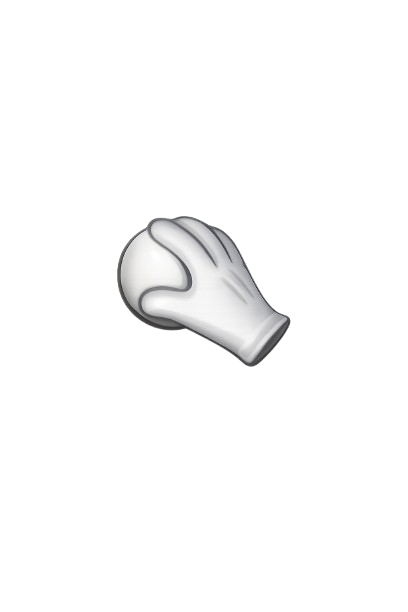
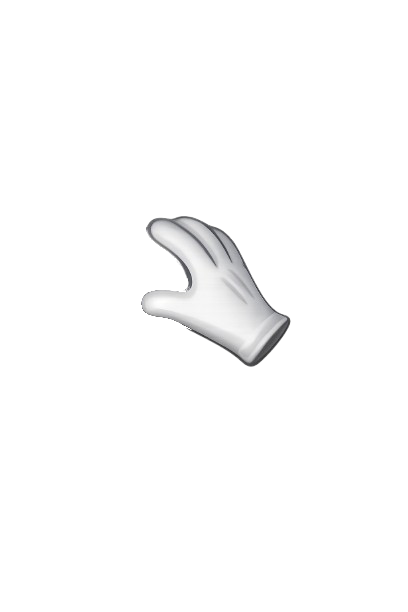
synced whiteball for everybody
M  public/assets/game/hand.png
M  src/common/pool-constants.ts
M  src/common/server-types.ts
M  src/scenes/pool-game-scene.ts
M  src/services/local-service.ts
M  src/services/multiplayer-service.tsx
M  src/services/service.ts

Changed region(s): [[0.2647, 0.3725, 0.4706, 0.5588]]

diff --git a/src/scenes/pool-game-scene.ts b/src/scenes/pool-game-scene.ts
@@ -124,13 +124,8 @@ export class PoolGameScene extends Phaser.Scene {
         });
 
         this.service.subscribe(Events.PULL, ({ x, y, angle }) => {
-            const width = this.tableWidth;
-            const height = this.tableHeight;
-
-            const mx = this.marginX;
-            const my = this.marginY;
-
-            this.updateCueBullback(x * width + mx, y * height + my, angle);
+            const target = this.denormalize(x, y);
+            this.updateCueBullback(target.x, target.y, angle);
         });
 
         this.service.subscribe(Events.DRAG_POWER_METER, ({ power }) => this.setPower(power));
@@ -141,16 +136,22 @@ export class PoolGameScene extends Phaser.Scene {
             this.service.setState(state);
         });
 
-        this.service.subscribe(Events.HAND, ({ x, y }) => {
-            const width = this.tableWidth;
-            const height = this.tableHeight;
+        this.service.subscribe(Events.HAND, ({ x, y, click }) => {
+            const wb = this.balls.length - 1;
+            const whiteBall = this.balls[wb]!;
+            const { x: px, y: py } = this.denormalize(x, y);
 
-            const mx = this.marginX;
-            const my = this.marginY;
+            if (click) {
+                whiteBall.isPocketed = whiteBall.isAnimating = this.hand.visible = false;
+                whiteBall.phaserSprite.visible = true;
+                whiteBall.phaserSprite.setPosition(px, py);
+                this.service.setInHole(wb, false);
+            } else {
+                this.hand.setPosition(px, py);
+                whiteBall.phaserSprite.setPosition(px, py);
+                whiteBall.phaserSprite.visible = this.hand.visible = true;
+            }
 
-            const whiteBall = this.balls[this.balls.length - 1]!;
-            whiteBall.phaserSprite.setPosition(x * width + mx, y * height + my);
-            whiteBall.phaserSprite.visible = true;
         });
     }
 
@@ -521,6 +522,20 @@ export class PoolGameScene extends Phaser.Scene {
         return px >= left && px <= right && py >= top && py <= bottom;
     }
 
+    private normalize(x: number, y: number): { x: number; y: number } {
+        return {
+            x: (x - this.marginX) / this.tableWidth,
+            y: (y - this.marginY) / this.tableHeight
+        };
+    }
+
+    private denormalize(x: number, y: number): { x: number; y: number } {
+        return {
+            x: x * this.tableWidth + this.marginX,
+            y: y * this.tableHeight + this.marginY
+        };
+    }
+
     private setupInput(): void {
         this.input.on("pointermove", (pointer: Phaser.Input.Pointer) => {
             if (MODAL_OPEN || !this.service.isMyTurn()) return;
@@ -531,12 +546,8 @@ export class PoolGameScene extends Phaser.Scene {
             const whiteBall = this.balls[this.balls.length - 1]!;
 
             if (whiteBall.isPocketed && this.canPlaceBall(px, py)) {
-                const mx = this.marginX;
-                const my = this.marginY;
-
-                this.hand.visible = true;
-                this.hand.setPosition(px, py);
-                this.service.moveHand((px - mx) / this.tableWidth, (py - my) / this.tableHeight);
+                const data = this.normalize(px, py);
+                this.service.moveHand(data.x, data.y, false);
                 return;
             }
 
@@ -555,10 +566,8 @@ export class PoolGameScene extends Phaser.Scene {
 
             // Hand Stuff
             if (whiteBall.isPocketed && this.canPlaceBall(px, py)) {
-                whiteBall.isPocketed = whiteBall.isAnimating = this.hand.visible = false;
-                whiteBall.phaserSprite.visible = true;
-                whiteBall.phaserSprite.setPosition(px, py);
-                this.service.setInHole(wb, false);
+                const data = this.normalize(px, py);
+                this.service.moveHand(data.x, data.y, true);
                 return;
             }
 
@@ -618,18 +627,13 @@ export class PoolGameScene extends Phaser.Scene {
 
         if (!this.cue.phaserSprite || !this.service.isMyTurn()) return;
 
-        const width = this.tableWidth;
-        const height = this.tableHeight;
-
-        const mx = this.marginX;
-        const my = this.marginY;
-
         const { x, y } = whiteBall.phaserSprite!;
 
         if (this.isMobile) {
             // Still show aim line with current angle
+            const data = this.normalize(x, y);
             this.drawAimLine(x, y, this.cue.rotation);
-            this.service.pull((x - mx) / width, (y - my) / height, this.cue.rotation, this.cue.power);
+            this.service.pull(data.x, data.y, this.cue.rotation, this.cue.power);
             return;
         }
 
@@ -660,8 +664,10 @@ export class PoolGameScene extends Phaser.Scene {
         }
 
         // Aim line
+        const data = this.normalize(x, y);
+
         this.drawAimLine(x, y, angle);
-        this.service.pull((x - mx) / width, (y - my) / height, angle, this.cue.power);
+        this.service.pull(data.x, data.y, angle, this.cue.power);
     }
 
     private lineStyle(width: number, color: number, alpha: number = 1): void {

diff --git a/src/common/server-types.ts b/src/common/server-types.ts
@@ -3,13 +3,13 @@ import type { BallType, KeyPositions } from "./pool-types";
 
 type MiddlewareResponse<TOutput> =
     | {
-          success: true;
-          data: TOutput;
-          error?: null;
-      }
+        success: true;
+        data: TOutput;
+        error?: null;
+    }
     | {
-          error: string;
-      };
+        error: string;
+    };
 
 export type Middleware<TInput, TOutput = unknown> = (
     data: TInput
@@ -103,7 +103,7 @@ export type EventsData = {
     [Events.HITS]: { keyPositions: KeyPositions; state: PoolState };
     [Events.PULL]: { x: number; y: number; angle: number; power: number };
     [Events.INIT]: Room;
-    [Events.HAND]: { x: number; y: number };
+    [Events.HAND]: { x: number; y: number, click: boolean };
 
     // UI UPDATES
     [Events.DROP_BALL]: { ballNumber: number | "white" | "black"; ballType: BallType };

diff --git a/src/services/multiplayer-service.tsx b/src/services/multiplayer-service.tsx
@@ -169,9 +169,9 @@ export class MultiplayerService extends LocalService {
         this.call(Events.PULL, { x, y, angle, power }, BroadcastEvent.OTHERS);
     }
 
-    override moveHand(x: number, y: number): void {
-        this.send(Events.HAND, { x, y });
-        this.call(Events.HAND, { x, y }, BroadcastEvent.OTHERS);
+    override moveHand(x: number, y: number, click: boolean): void {
+        this.send(Events.HAND, { x, y, click });
+        this.call(Events.HAND, { x, y, click }, BroadcastEvent.OTHERS);
     }
 
     public isConnected(): boolean {

diff --git a/src/services/local-service.ts b/src/services/local-service.ts
@@ -41,8 +41,8 @@ export class LocalService extends Service {
         });
     }
 
-    override moveHand(x: number, y: number): void {
-        this.send(Events.HAND, { x, y });
+    override moveHand(x: number, y: number, click: boolean): void {
+        this.send(Events.HAND, { x, y, click });
     }
 
     override setInHole(index: number, inHole: boolean): void {

diff --git a/src/services/service.ts b/src/services/service.ts
@@ -41,7 +41,7 @@ export abstract class Service {
     abstract getState<T>(): T;
 
     abstract pull(x: number, y: number, angle: number, power: number): void;
-    abstract moveHand(x: number, y: number): void;
+    abstract moveHand(x: number, y: number, click: boolean): void;
 
     abstract timerStart(): void;
     abstract timerLeft(): number;

diff --git a/src/common/pool-constants.ts b/src/common/pool-constants.ts
@@ -105,7 +105,7 @@ export const RAIL_RESTITUTION = 0.85; // rail (e)
 
 // Physics constants
 export const MAX_POWER = 30;
-export const MAX_STEPS = 1000;
+export const MAX_STEPS = 600;
 export const TIMER_DURATION = 30;
 
 // Label Constants
